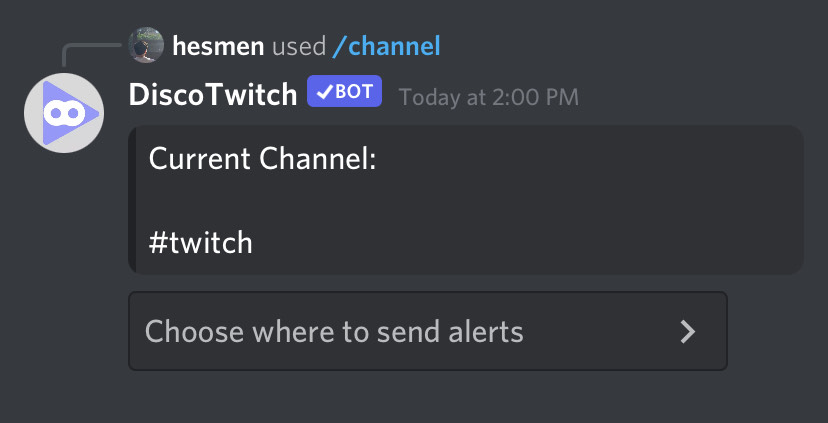
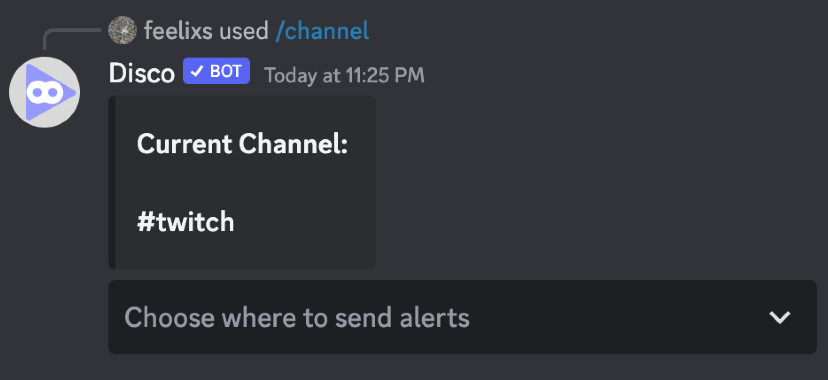
change wordinf

Changed region(s): [[0.0, 0.0289, 0.6944, 0.6947], [0.1208, 0.7237, 0.9964, 0.9553], [0.8152, 0.7526, 0.8454, 0.8105]]

diff --git a/doc.html b/doc.html
@@ -13,7 +13,7 @@
 
 
 
-    <title>Discotwitch - Documentation</title>
+    <title>Disco Bot - Documentation</title>
     <meta charset="utf-8">
     <meta name="viewport" content="width=device-width, initial-scale=0.5">
     <link href="https://fonts.googleapis.com/css2?family=Noto+Sans+JP:wght@300&family=Pontano+Sans&display=swap" rel="stylesheet">
@@ -26,15 +26,16 @@
 
 <body id="content">
     <div class="navbar">
-        <a href="index.html" style="float:left;margin-left:100px"><!--<img id="logo" src='logo.png'>-->Discotwitch</a>
+        <a href="index.html" style="float:left;margin-left:100px"><!--<img id="logo" src='logo.png'>-->Home</a>
         <a href="doc.html" style="float:left;background: #777777;">Documentation</a>
+        <a target="_blank" href="https://github.com/mike-fmh/twitch-livebot" style="float:left">GitHub</a>
         <a href="#" style="margin-right:100px">Overview</a>
         <a href="#commands">Commands</a>
 
     </div>
     <div id="">
         <div class="splash">
-        <h2>Using DiscoTwitch</h2>
+        <h3>Disco Bot Documentation</h3>
         </div>
     <div id="#" style="margin-left:10vw;margin-top:20px">
         <p class="infotext title">Navigation</p>
@@ -84,7 +85,7 @@
         <h2 class="title">/channel</h2>
             <p class="infotext">Choose where the bot will post alerts.<br>No arguments are used with this - instead you choose a channel from a menu after using the command.</p>
         <h2 class="title">/role</h2>
-        <p class="infotext">Set the required role to send commands to DiscoTwitch.<br>This command also uses no arguments, you'll choose a role from a menu.</p>
+        <p class="infotext">Set the required role to send commands to Disco.<br>This command also uses no arguments, you'll choose a role from a menu.</p>
         <p class="infotext">Default role is @everyone, meaning anyone can follow/unfollow users, change the post channel, etc.</p>
         <h2 class="title">/settings</h2>
         <p class="infotext">Customize misc settings from a dropdown menu.<br><br>Notification Settings:<br></p>
@@ -97,26 +98,26 @@
         - Alert when channels go offline -> Sends alerts when live streams end.<br>
         - Alert with replays when streams end -> Send alerts when live streams end with links to the stream replay.</p>
         <p class="infotext">Role Settings:<br></p>
-        <p class="infotext" style="padding-left:40px">- Set required role for changing settings -> Only users with this chosen role will be able to edit DiscoTwitch settings such as /channel, /message, /settings, etc. This is the same as using the /role command.<br>
+        <p class="infotext" style="padding-left:40px">- Set required role for changing settings -> Only users with this chosen role will be able to edit Disco settings such as /channel, /message, /settings, etc. This is the same as using the /role command.<br>
         - Set default alert role for &ltrole&gt -> Choose what role will be mentioned by default in alert messages in place of "&ltrole&gt". This can be overridden for specific Twitch users in /settings > Twitch User Settings</p>
         <p class="infotext">Twitch User Settings:<br></p>
-        <p class="infotext" style="padding-left:40px">- Connect a Discord user -> Choose a Discord user to mention in live alerts for the chosen Twitch user instead of the Twitch username. This will also give the Discord user a "Streaming" Role whenever the chosen Twitch user is live. If there's issues with getting the role assignment to work, make sure to give DiscoTwitch "Administrator" Privileges.<br>
+        <p class="infotext" style="padding-left:40px">- Connect a Discord user -> Choose a Discord user to mention in live alerts for the chosen Twitch user instead of the Twitch username. This will also give the Discord user a "Streaming" Role whenever the chosen Twitch user is live. If there's issues with getting the role assignment to work, make sure to give Disco "Administrator" Privileges.<br>
         - Disconnect a Discord user -> Removes any user chosen from the above option.<br>
         - Choose a role to mention in alerts -> Overrides the default &ltrole&gt (chosen with /role > default alert role) for the chosen Twitch user.<br>
         - Set a custom alert channel -> Overrides the alert channel (chosen with /channel) with a different one for the chosen Twitch user.</p>
         <h2 class="title">/connect <i>discorduserid, twitchname</i></h2>
         <p class="infotext">Connect a Discord user to their Twitch account (same functionality as "Twitch User Settings")</p>
         <p class="infotext" style="padding-left:40px">Examples:</p>
-        <p class="infotext"><i>/connect 01001293821093 xqc</i><br>> The discord user with id "01001293821093" will now be mentioned instead of "xqc" in live alerts for twitch.tv/xqc</p>
+        <p class="infotext"><i>/connect 01001293821093 xqc</i><br>> The discord user with id "01001293821093" will now be mentioned instead of "xqc" in live alerts for twitch.tv/xqc</p>/
         <br>
-        <p class="infotext">The "connect" command will also add a new "Streaming" role which will be given to Discord users when their Twitch account is detected as live. If this role isn't being assigned correctly, please make sure your server's role hierarchy is as follows (discotwitch must have a role higher than the created "Streaming" role)</p>
+        <p class="infotext">The "connect" command will also add a new "Streaming" role which will be given to Discord users when their Twitch account is detected as live. If this role isn't being assigned correctly, please make sure your server's role hierarchy is as follows (Disco must have a role higher than the created "Streaming" role)</p>
         <img src="roels.png" style="width: 500px" class="infotext">
         <h2 class="title">/nickname <i>name</i></h2>
         <p class="infotext">Change the nickname of the bot in your server.</p>
         <p class="infotext" style="padding-left:40px">Examples:</p>
-        <p class="infotext"><i>/nickname Live-Bot</i><br>> set DiscoTwitch's nickname to "Live-Bot"</p>
+        <p class="infotext"><i>/nickname Live-Bot</i><br>> set Disco's nickname to "Live-Bot"</p>
         <h2 class="title2" id="help">More Help</h2>
-        <p class="infotext">This page briefly covers the usage of DiscoTwitch commands.</p>
+        <p class="infotext">This page briefly covers the usage of Disco commands.</p>
         <p class="infotext">If you need more help or have bugs/issues to report join the official Discord:</p>
         <p class="infotext"><a href="https://discord.com/invite/atwCY9d"><button>Join</button></a></p>
 
@@ -137,6 +138,6 @@
   <script src="/__/firebase/7.24.0/firebase-firestore.js"></script>
 </body>
 <footer>
-    <p style="color:white">Copyright &copy; 2023 DiscoTwitch.com, All Rights Reserved, not affiliated or endorsed by Discord Inc or Twitch Interactive.</p>
+    <p style="color:white">Copyright &copy; 2023 Disco Twitch Alerts, All Rights Reserved, not affiliated or endorsed by Discord Inc or Twitch Interactive.</p>
 </footer>
 

diff --git a/index.html b/index.html
@@ -12,8 +12,8 @@
     </script>
 
 
-    <title>DiscoTwitch - Home</title>
-    <meta name="description" content="Keep you Discord server up-to-date on Twitch channels going live. !dt follow xqcow,esl_csgo">
+    <title>Disco Bot - Home</title>
+    <meta name="description" content="Keep you Discord server up-to-date on Twitch channels going live. !dt follow xqc,esl_csgo">
     <meta charset="utf-8">
     <meta name="viewport" content="width=device-width, initial-scale=0.47">
     <link href="https://fonts.googleapis.com/css2?family=Noto+Sans+JP:wght@300&family=Pontano+Sans&display=swap" rel="stylesheet">
@@ -33,7 +33,7 @@
     };
 };</script>
     <div class="navbar">
-        <a href="index.html" style="float:left;margin-left:100px;background: #777777;">Discotwitch</a>
+        <a href="index.html" style="float:left;margin-left:100px;background: #777777;">Home</a>
         <a href="doc.html" style="float:left">Documentation</a>
         <a target="_blank" href="https://github.com/mike-fmh/twitch-livebot" style="float:left">GitHub</a>
         <a href="#support" style="margin-right:100px">Support</a>
@@ -44,13 +44,11 @@
 <!--
     <div class="announcebanner">
         <button id='close'>X</button>
-                <p>Sorry, but the official DiscoTwitch instance is currently offline.</p>
-                <p>You can still run your own instance of the bot - visit <a target="_blank" href="https://github.com/mike-fmh/DiscoTwitch"> the GitHub </a> for more info.</p>
+                <p>Sorry, but Disco is currently offline.</p>
     </div>
 -->
-    <div id="splash" style="padding-bottom:100px">
-
-        <h2 style="float:center;padding-bottom:100px">DiscoTwitch</h2>
+    <div id="splash">
+        <h3>Disco Alert Bot</h3>
        <!-- <p style="padding-top:300px;font-size:0.5em;">Customizable Discord/Twitch Bot</p>-->
     </div>
 
@@ -65,8 +63,8 @@
         -->
 
         <p style="padding-top:100px" class="infotext">
-            The fast, customizable Twitch-live notification bot.<br><br><br>
-            Discotwitch can be easily configured to monitor multiple Twitch channels and notify your server whenever one goes live.<br><br>
+            Disco is a fast, customizable Twitch-live notification bot.<br><br><br>
+            Easily configurable to monitor multiple Twitch channels and notify your server whenever one goes live.<br><br>
             Simply invite it to your server, and it will guide you through the setup process.<br><br>
             <a target="_blank" href="https://discord.com/api/oauth2/authorize?client_id=759451174998376468&permissions=335693824&scope=bot%20applications.commands"><button>Invite</button></a>
       <!--      Choose a channel for DiscoTwitch to post on-live notifications in:
@@ -89,18 +87,11 @@
         <h2 id="support" class="title">Bug Reports/Support</h2>
         <p class="infotext">Visit the official Discord for help and to report bugs.<br><br><a class="btn" target="_blank" href="https://discord.gg/atwCY9d"><button>Join</button></a></p><br>
         <p class="infotext">Consider leaving a review on <a target='_blank' href="https://top.gg/bot/759451174998376468">top.gg</a></p>
-        <h2 class="title" id="announcements">Recent Updates</h2>
-        <ul class="infotext">
-            <!--<li>6/23/2022: Unfortunately, the official DiscoTwitch instance will no longer be hosted, however it's still possible to <a href="https://github.com/mike-fmh/DiscoTwitch">run the bot locally</a> for yourself. Thanks for understanding!</li>-->
-            <li>4/09/2022 - v2.1.0: Slash commands are now live! You can check out the updated commands in the Documentation.</li>
-            <li>4/29/2022 - v2.1.1: Optimization for faster delivery of alerts, and various bug fixes.</li>
-        </ul>
 
         <h2 class="title">Donate</h2>
-        <p class="infotext">As a team of a single person, I strive to make DiscoTwitch a fast, easy-to-use, non-premium bot with all features entirely free to use for everybody. Any donations are completely optional but entirely appreciated. <br><br>
-            <a class="infoa" target="_blank" href="https://ko-fi.com/discotwitch"><button>Give a Donation</button></a><br><br>
-            If you want to contribute, be sure to include
-            your username and discriminator to get your supporter role in our Discord!</p>
+        <p class="infotext">As a single-person team, I strive to provide a free & easy-to-use product, meaning I personally cover all the costs to keep the bot up and running smoothly. While any support is deeply appreciated, it's by no means mandatory. Disco is here to make your streaming & viewing life easier, and that's what matters most!<br><br>
+            <a class="infoa" target="_blank" href="https://www.patreon.com/discotwitch"><button>Support The Project</button></a><br><br>
+            </p>
 
 
 
@@ -118,5 +109,5 @@
 
 </body>
 <footer>
-    <p style="color:white">Copyright &copy; 2023 DiscoTwitch, All Rights Reserved, not affiliated or endorsed by Discord Inc or Twitch Interactive.</p>
+    <p style="color:white">Copyright &copy; 2023 Disco Twitch Alerts, All Rights Reserved, not affiliated or endorsed by Discord Inc or Twitch Interactive.</p>
 </footer>
